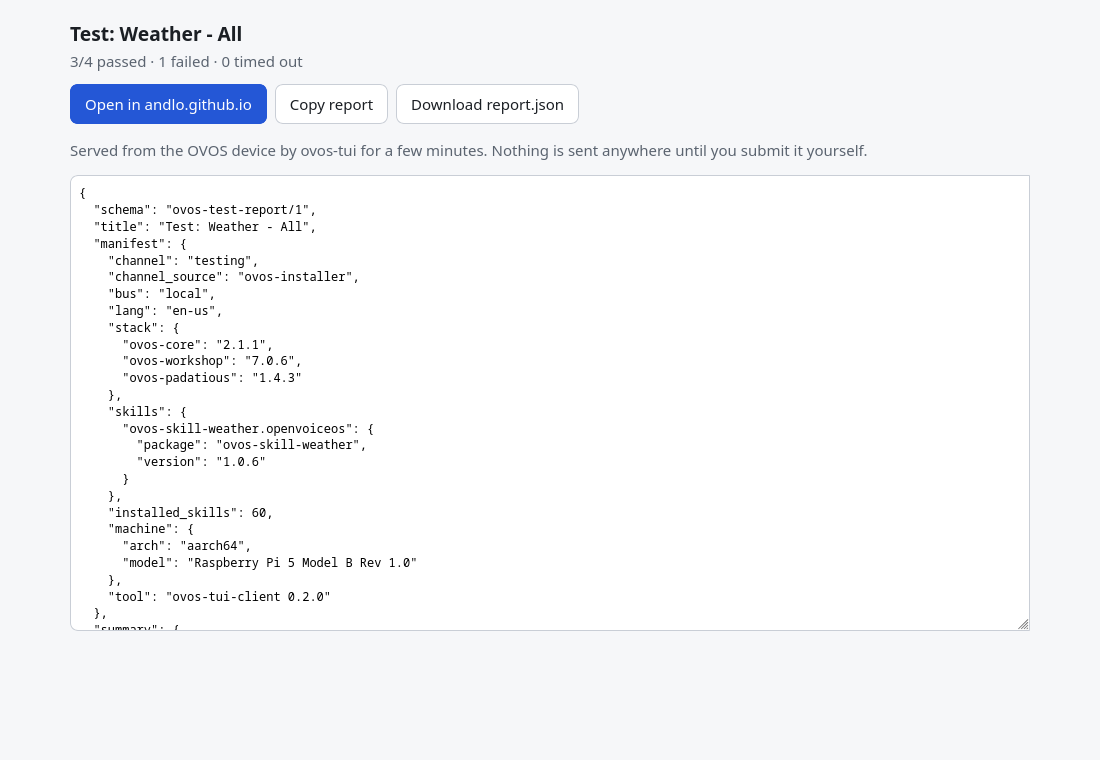
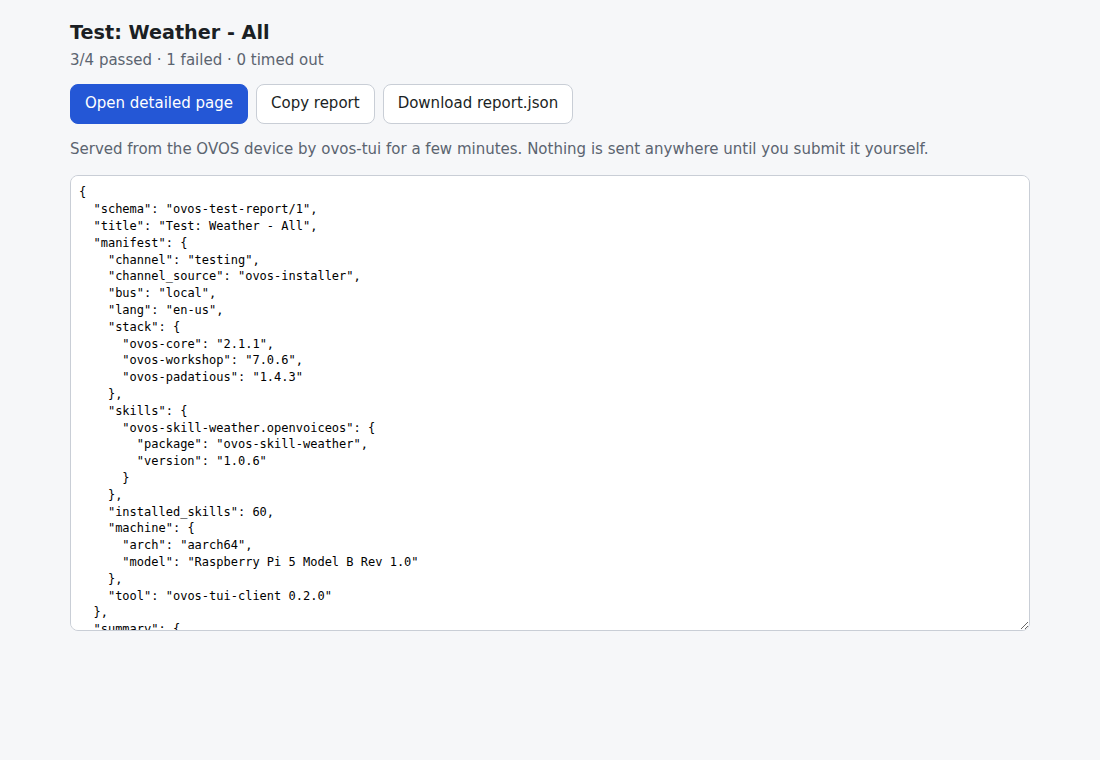
fix(share): call the store button 'Open detailed page'
The button took its label from the store link's host ("Open in
andlo.github.io"). It now has a fixed label; the host is in its tooltip.

Claude-Session: https://claude.ai/code/session_01U85mFNBejDm5SYAjTnf8tS

diff --git a/ovos_tui_client/report_screen.py b/ovos_tui_client/report_screen.py
@@ -308,8 +308,8 @@ class ShareScreen(ModalScreen):
             yield Static(
                 "Ctrl+click the link (in some terminals Ctrl+Shift+click), or select it with Shift + mouse and "
                 "paste it in your browser. The page has Copy report and Download report.json"
-                + (", and Open in the store with the report filled in." if self._store else
-                   ". Set a store link (Ctrl+P → 'Settings: Skill store report link') to also get Open in the store.")
+                + (", and Open detailed page: the store's page with the report filled in." if self._store else
+                   ". Set a store link (Ctrl+P → 'Settings: Skill store report link') to also get Open detailed page.")
                 + f" The link works while this window is open (at most {self._minutes} min), on the same network "
                 "as this device.", classes="report-help")
             yield Label("Or fetch the file", classes="share-label")

diff --git a/ovos_tui_client/share.py b/ovos_tui_client/share.py
@@ -62,8 +62,9 @@ def _page(title: str, text: str, store_link: Optional[str]) -> str:
     store = ""
     if store_link:
         host = urlparse(store_link).netloc or "the store"
-        store = (f'<a class="btn primary" href="{html.escape(store_link, quote=True)}" rel="noreferrer">'
-                 f'Open in {html.escape(host)}</a>')
+        store = (f'<a class="btn primary" href="{html.escape(store_link, quote=True)}" rel="noreferrer" '
+                 f'title="The skill store\'s page at {html.escape(host, quote=True)}, with this report filled in">'
+                 f'Open detailed page</a>')
     return f"""<!doctype html><html lang="en"><head><meta charset="utf-8">
 <meta name="viewport" content="width=device-width,initial-scale=1">
 <title>{html.escape(title)} - test report</title>

diff --git a/tests/test_headless.py b/tests/test_headless.py
@@ -386,7 +386,7 @@ def test_share_serves_the_report_page_and_file(tmp_path):
     url = share.start()
     try:
         page = urllib.request.urlopen(url, timeout=5).read().decode()
-        assert "2/3 passed" in page and "Open in store.example" in page and "Copy report" in page
+        assert "2/3 passed" in page and "Open detailed page" in page and "store.example" in page and "Copy report" in page
         assert urllib.request.urlopen(url + "report.json", timeout=5).read().decode() == text
         try:
             urllib.request.urlopen(url.rsplit("/", 2)[0] + "/wrong-token/", timeout=5)

diff --git a/ovos_tui_client/headless.py b/ovos_tui_client/headless.py
@@ -109,7 +109,7 @@ def share_report(text: str, title: str, path, store_link: Optional[str], log: Ca
     if url:
         log("")
         log(f"Open the report in your browser (Ctrl+click): {url}")
-        log("  " + ("Copy, Download, and 'Open in' the store with the report filled in." if store_link
+        log("  " + ("Copy, Download, and 'Open detailed page' (the store's page with the report filled in)." if store_link
                     else "Copy and Download there.") + f" The link works for {ttl / 60:.0f} min.")
     if path:
         log(f"Or fetch the file: {scp_hint(path)}")

diff --git a/docs/testing.md b/docs/testing.md
@@ -126,7 +126,7 @@ The buttons:
     - a **short link**: Ctrl+click it (Ctrl+Shift+click in some terminals),
       or select it with Shift + mouse and paste it in your browser. The page
       has **Copy report**, **Download report.json** and, when a store link is
-      set, **Open in &lt;store&gt;** with the report filled in;
+      set, **Open detailed page**, the store's page with the report filled in;
     - an **`scp` command** to fetch the file.
 
     The link works while the window is open (at most 15 minutes);
@@ -147,7 +147,7 @@ and only until the TUI is closed.
 
 The first time you share while no store link is set, the TUI asks for one.
 It's the link a skill store gives in its instructions; with it, the share
-page gets an **Open in &lt;store&gt;** button that opens the store's page
+page gets an **Open detailed page** button that opens the store's page
 with your report filled in. ovos-tui-client never submits anything: you
 check the report on the store's page and submit it there yourself.
 

diff --git a/docs/headless.md b/docs/headless.md
@@ -143,14 +143,14 @@ there are several ways:
 
     ```text
     Open the report in your browser (Ctrl+click): http://192.168.1.50:41733/q3v9XcA2Lk0e/
-      Copy, Download, and 'Open in' the store with the report filled in. The link works for 15 min.
+      Copy, Download, and 'Open detailed page' (the store's page with the report filled in). The link works for 15 min.
     Or fetch the file: scp ovos@192.168.1.50:/home/ovos/.local/share/ovos-tui-client/results/2026-10-01_101500_test-ovos-skill-weather-openvoiceos.report.json .
     Press Enter when you're done with the link...
     ```
 
     Ctrl+click (or copy) the link on your own computer. The page shows the
     report with **Copy report** and **Download report.json**, and, when a
-    store link is set (below), **Open in &lt;store&gt;**:
+    store link is set (below), **Open detailed page**, the store's page with the report filled in:
 
     ![The page a report link opens](images/share-page.png)
 
